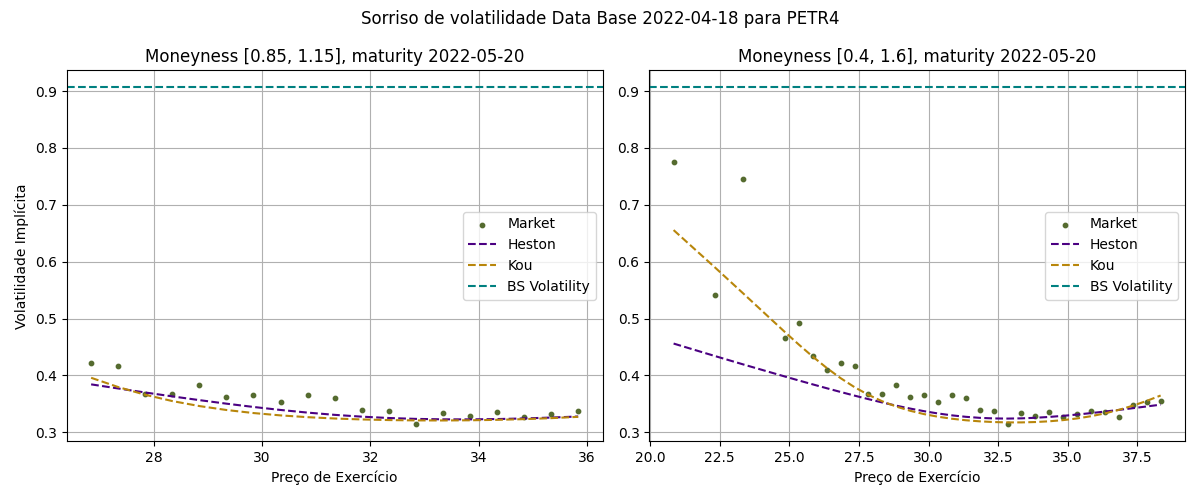
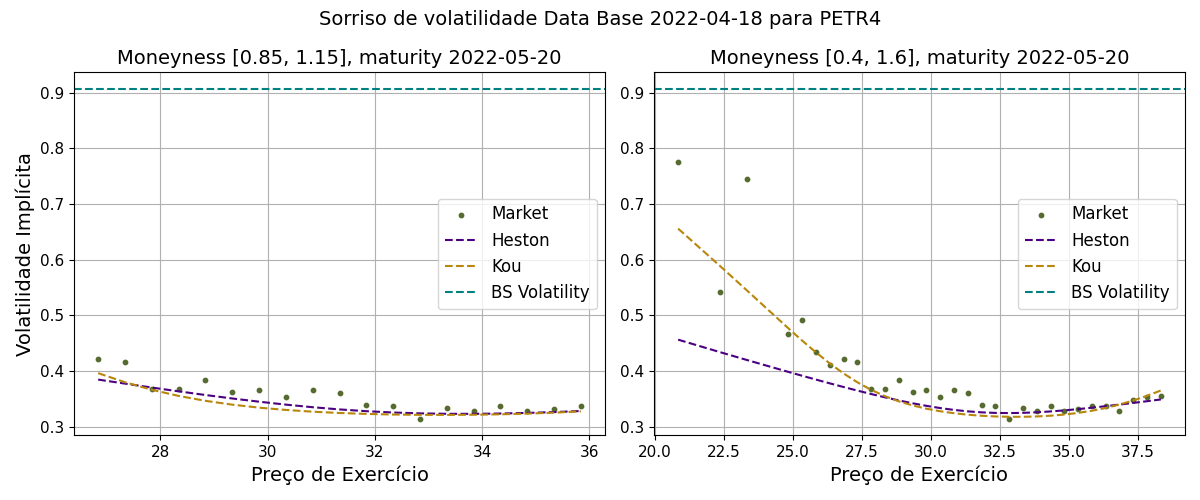
Adjusting figures and plots

diff --git a/models/stylized_facts.py b/models/stylized_facts.py
@@ -414,7 +414,7 @@ def test_smile():
         n_cols = len(moneynesses)
         fig, axs = plt.subplots(1, n_cols, figsize=(6 * n_cols, 5), squeeze=False)
         axs = axs.flatten()
-        fig.suptitle(f'Sorriso de volatilidade Data Base {database} para {ticker}')
+        fig.suptitle(f'Sorriso de volatilidade Data Base {database} para {ticker}', fontsize=14)
         maturity = None
         for (index, moneyness_divergence) in enumerate(moneynesses):
         # for moneyness_divergence in [0.2, 0.7]:
@@ -440,11 +440,12 @@ def test_smile():
             axs[index].plot(surface_heston['Strike'], surface_heston['Implied Volatility'], color='indigo', linestyle='dashed', label='Heston')
             axs[index].plot(surface_kou['Strike'], surface_kou['Implied Volatility'], color='darkgoldenrod', linestyle='dashed', label='Kou')
             axs[index].axhline(y=vol_hist, color='teal', linestyle='dashed', label='BS Volatility')
-            axs[index].set_title(f'Moneyness [{round(1-moneyness_divergence, 2)}, {round(1+moneyness_divergence, 2)}], maturity {maturity}')
-            axs[index].set_xlabel('Preço de Exercício')
+            axs[index].set_title(f'Moneyness [{round(1-moneyness_divergence, 2)}, {round(1+moneyness_divergence, 2)}], maturity {maturity}', fontsize=14)
+            axs[index].set_xlabel('Preço de Exercício', fontsize=14)
             if index == 0:
-                axs[index].set_ylabel('Volatilidade Implícita')
-            axs[index].legend()
+                axs[index].set_ylabel('Volatilidade Implícita', fontsize=14)
+            axs[index].legend(fontsize=12)
+            axs[index].tick_params(axis='both', labelsize=11)
             axs[index].grid()
         
         plt.tight_layout()
@@ -526,21 +527,21 @@ def test_ibovespa():
     )
 
     # labels & title
-    ax.set_title("Distribuição dos Log-Retornos Diários — IBOVESPA (1 ano)", color="#111111", fontsize=13, pad=14)
-    ax.set_xlabel("Log-retorno", color="#333333", fontsize=11)
-    ax.set_ylabel("Densidade", color="#333333", fontsize=11)
+    ax.set_title("Distribuição dos Log-Retornos Diários — IBOVESPA (1 ano)", color="#111111", fontsize=16, pad=14)
+    ax.set_xlabel("Log-retorno", color="#333333", fontsize=13)
+    ax.set_ylabel("Densidade", color="#333333", fontsize=13)
 
     ax.grid(axis="y", color="#dddddd", linewidth=0.7, linestyle="-", zorder=0)
     ax.grid(axis="x", color="#eeeeee", linewidth=0.5, linestyle="-", zorder=0)
     ax.set_axisbelow(True)
 
-    ax.tick_params(colors="#555555", labelsize=9)
+    ax.tick_params(colors="#555555", labelsize=11)
     for spine in ax.spines.values():
         spine.set_edgecolor("#cccccc")
 
     ax.xaxis.set_major_formatter(mticker.FuncFormatter(lambda v, _: f"{v:.2%}"))
 
-    leg = ax.legend(frameon=True, framealpha=0.9, facecolor="white", edgecolor="#4c72b0", labelcolor="#111111", fontsize=9)
+    leg = ax.legend(frameon=True, framealpha=0.9, facecolor="white", edgecolor="#4c72b0", labelcolor="#111111", fontsize=11)
 
     plt.tight_layout()
     plt.show()
@@ -612,30 +613,173 @@ def plot_ibov_smile():
     ax.grid(axis="x", color="#eeeeee", linewidth=0.5, linestyle="-", zorder=0)
     ax.set_axisbelow(True)
 
-    ax.set_title(f"Sorriso de Volatilidade EWZ / Ibovespa - Venc. {best_exp} ", color="#111111", fontsize=13, pad=14)
-    ax.set_xlabel("Log-moneyness  $\\ln(K/S)$", color="#333333", fontsize=11)
-    ax.set_ylabel("Volatilidade Implícita", color="#333333", fontsize=11)
+    ax.set_title(f"Sorriso de Volatilidade EWZ / Ibovespa - Venc. {best_exp} ", color="#111111", fontsize=16, pad=14)
+    ax.set_xlabel("Log-moneyness  $\\ln(K/S)$", color="#333333", fontsize=13)
+    ax.set_ylabel("Volatilidade Implícita", color="#333333", fontsize=13)
 
     ax.yaxis.set_major_formatter(mticker.FuncFormatter(lambda v, _: f"{v:.0%}"))
     ax.xaxis.set_major_formatter(mticker.FuncFormatter(lambda v, _: f"{v:.1%}"))
     ax.set_xlim(-0.37, 0.37)
 
-    ax.tick_params(colors="#555555", labelsize=9)
+    ax.tick_params(colors="#555555", labelsize=11)
     for spine in ax.spines.values():
         spine.set_edgecolor("#cccccc")
 
     ax.legend(frameon=True, framealpha=0.9, facecolor="white",
-              edgecolor="#4c72b0", labelcolor="#111111", fontsize=9)
+              edgecolor="#4c72b0", labelcolor="#111111", fontsize=11)
 
     plt.tight_layout()
     plt.show()
 
+def plot_ibov_svi(min_options: int = 5, min_moneyness_span: float = 0.5):
+    from scipy.optimize import minimize
+    from scipy.interpolate import RectBivariateSpline
+    from mpl_toolkits.mplot3d import Axes3D  # noqa: F401
+
+    ticker = yf.Ticker("EWZ")
+    spot = ticker.history(period="1d")["Close"].iloc[-1]
+    expirations = ticker.options
+    if not expirations:
+        raise ValueError("Sem dados de opções disponíveis para EWZ")
+
+    def _filter(df, otm_mask):
+        df = df[df["ask"] > 0].copy()
+        df = df[df["impliedVolatility"] > 0]
+        df = df[df["volume"] >= 2]
+        df = df[(df["ask"] - df["bid"]) / df["ask"] <= 1.0]
+        df = df[otm_mask(df)]
+        df["moneyness"] = np.log(df["strike"] / spot)
+        return df
+
+    def svi_w(k, a, b, rho, m, sigma):
+        return a + b * (rho * (k - m) + np.sqrt((k - m) ** 2 + sigma ** 2))
+
+    def fit_svi(k, w_market):
+        def objective(params):
+            a, b, rho, m, sigma = params
+            w_fit = svi_w(k, a, b, rho, m, sigma)
+            return np.sum((w_fit - w_market) ** 2)
+
+        x0 = [np.mean(w_market), 0.1, -0.5, 0.0, 0.1]
+        bounds = [
+            (1e-6, None),
+            (1e-6, None),
+            (-0.999, 0.999),
+            (-1.0, 1.0),
+            (1e-6, None),
+        ]
+        result = minimize(objective, x0, bounds=bounds, method="L-BFGS-B")
+        return result.x
+
+    slices = []
+    for exp in expirations[:10]:
+        dte = (pd.to_datetime(exp).date() - date.today()).days
+        if dte < 5:
+            continue
+        tau = dte / 365.0
+        chain = ticker.option_chain(exp)
+        puts  = _filter(chain.puts,  lambda d: d["strike"] < spot)
+        calls = _filter(chain.calls, lambda d: d["strike"] > spot)
+        smile = pd.concat([
+            puts[["moneyness", "impliedVolatility"]],
+            calls[["moneyness", "impliedVolatility"]],
+        ]).sort_values("moneyness").dropna()
+        smile = smile[(smile["moneyness"] >= -0.35) & (smile["moneyness"] <= 0.35)]
+        moneyness_span = smile["moneyness"].max() - smile["moneyness"].min() if len(smile) > 1 else 0
+        if len(smile) < min_options or moneyness_span < min_moneyness_span:
+            continue
+        slices.append((tau, dte, exp, smile))
+
+    if len(slices) < 2:
+        raise ValueError("Pontos insuficientes para construir superfície.")
+
+    k_grid = np.linspace(-0.30, 0.30, 80)
+    tau_vals, dte_vals, iv_surface, raw_slices = [], [], [], []
+
+    for tau, dte, exp, smile in slices:
+        k = smile["moneyness"].values
+        iv = smile["impliedVolatility"].values
+        w_market = iv ** 2 * tau
+        try:
+            params = fit_svi(k, w_market)
+            w_fit = np.maximum(svi_w(k_grid, *params), 1e-8)
+            iv_fit = np.sqrt(w_fit / tau)
+            tau_vals.append(tau)
+            dte_vals.append(dte)
+            iv_surface.append(iv_fit)
+            raw_slices.append((dte, smile))
+        except Exception:
+            continue
+
+    if len(tau_vals) < 2:
+        raise ValueError("Ajuste SVI falhou para maturidades suficientes.")
+
+    IV_coarse = np.array(iv_surface)  # shape: (n_slices, 80)
+
+    # interpolação bicúbica: suaviza tanto no eixo DTE quanto no de moneyness
+    spline = RectBivariateSpline(dte_vals, k_grid, IV_coarse, kx=min(3, len(dte_vals) - 1), ky=3)
+
+    k_fine   = np.linspace(k_grid.min(), k_grid.max(), 150)
+    dte_fine = np.linspace(min(dte_vals), max(dte_vals), 80)
+
+    IV_fine = np.maximum(spline(dte_fine, k_fine), 0.0)
+    K, T = np.meshgrid(k_fine, dte_fine)
+    IV = IV_fine
+
+    fig = plt.figure(figsize=(12, 7), facecolor="white")
+    ax = fig.add_subplot(111, projection="3d")
+    ax.set_facecolor("white")
+
+    surf = ax.plot_surface(
+        K, T, IV,
+        cmap="Blues",
+        alpha=0.85,
+        linewidth=0.3,
+        antialiased=True,
+        edgecolor="#99aacc",
+    )
+
+    for dte, smile in raw_slices:
+        ax.scatter(
+            smile["moneyness"].values,
+            np.full(len(smile), dte),
+            smile["impliedVolatility"].values,
+            s=8, color="#213d5f", alpha=0.55, zorder=5,
+        )
+
+    cbar = fig.colorbar(surf, ax=ax, shrink=0.45, aspect=12, pad=0.1)
+    cbar.set_label("Volatilidade Implícita", color="#333333", fontsize=11)
+    cbar.ax.yaxis.set_major_formatter(mticker.FuncFormatter(lambda v, _: f"{v:.0%}"))
+    cbar.ax.tick_params(labelsize=10, colors="#555555")
+
+    ax.set_title("Superfície de Volatilidade EWZ / Ibovespa — Modelo SVI", color="#111111", fontsize=16, pad=14)
+    ax.set_xlabel("Log-moneyness  $\\ln(K/S)$", color="#333333", fontsize=13, labelpad=10)
+    ax.set_ylabel("Dias para vencimento", color="#333333", fontsize=13, labelpad=10)
+    ax.set_zlabel("Vol. Implícita", color="#333333", fontsize=13, labelpad=6)
+
+    ax.xaxis.set_major_formatter(mticker.FuncFormatter(lambda v, _: f"{v:.1%}"))
+    ax.zaxis.set_major_formatter(mticker.FuncFormatter(lambda v, _: f"{v:.0%}"))
+
+    ax.tick_params(colors="#555555", labelsize=11)
+    ax.xaxis.pane.fill = False
+    ax.yaxis.pane.fill = False
+    ax.zaxis.pane.fill = False
+    ax.xaxis.pane.set_edgecolor("#dddddd")
+    ax.yaxis.pane.set_edgecolor("#dddddd")
+    ax.zaxis.pane.set_edgecolor("#dddddd")
+    ax.grid(True, color="#eeeeee", linewidth=0.5)
+
+    plt.tight_layout()
+    plt.show()
+
+
 if __name__ == "__main__":
     # test_ibovespa()
-    plot_ibov_smile()
+    # plot_ibov_smile()
+    # plot_ibov_svi()
     # test_returns()
     # save_returns_metrics()
     # test_vol()
-    # test_smile()
+    test_smile()
     # check_smile()
     # test_asset_prices()
